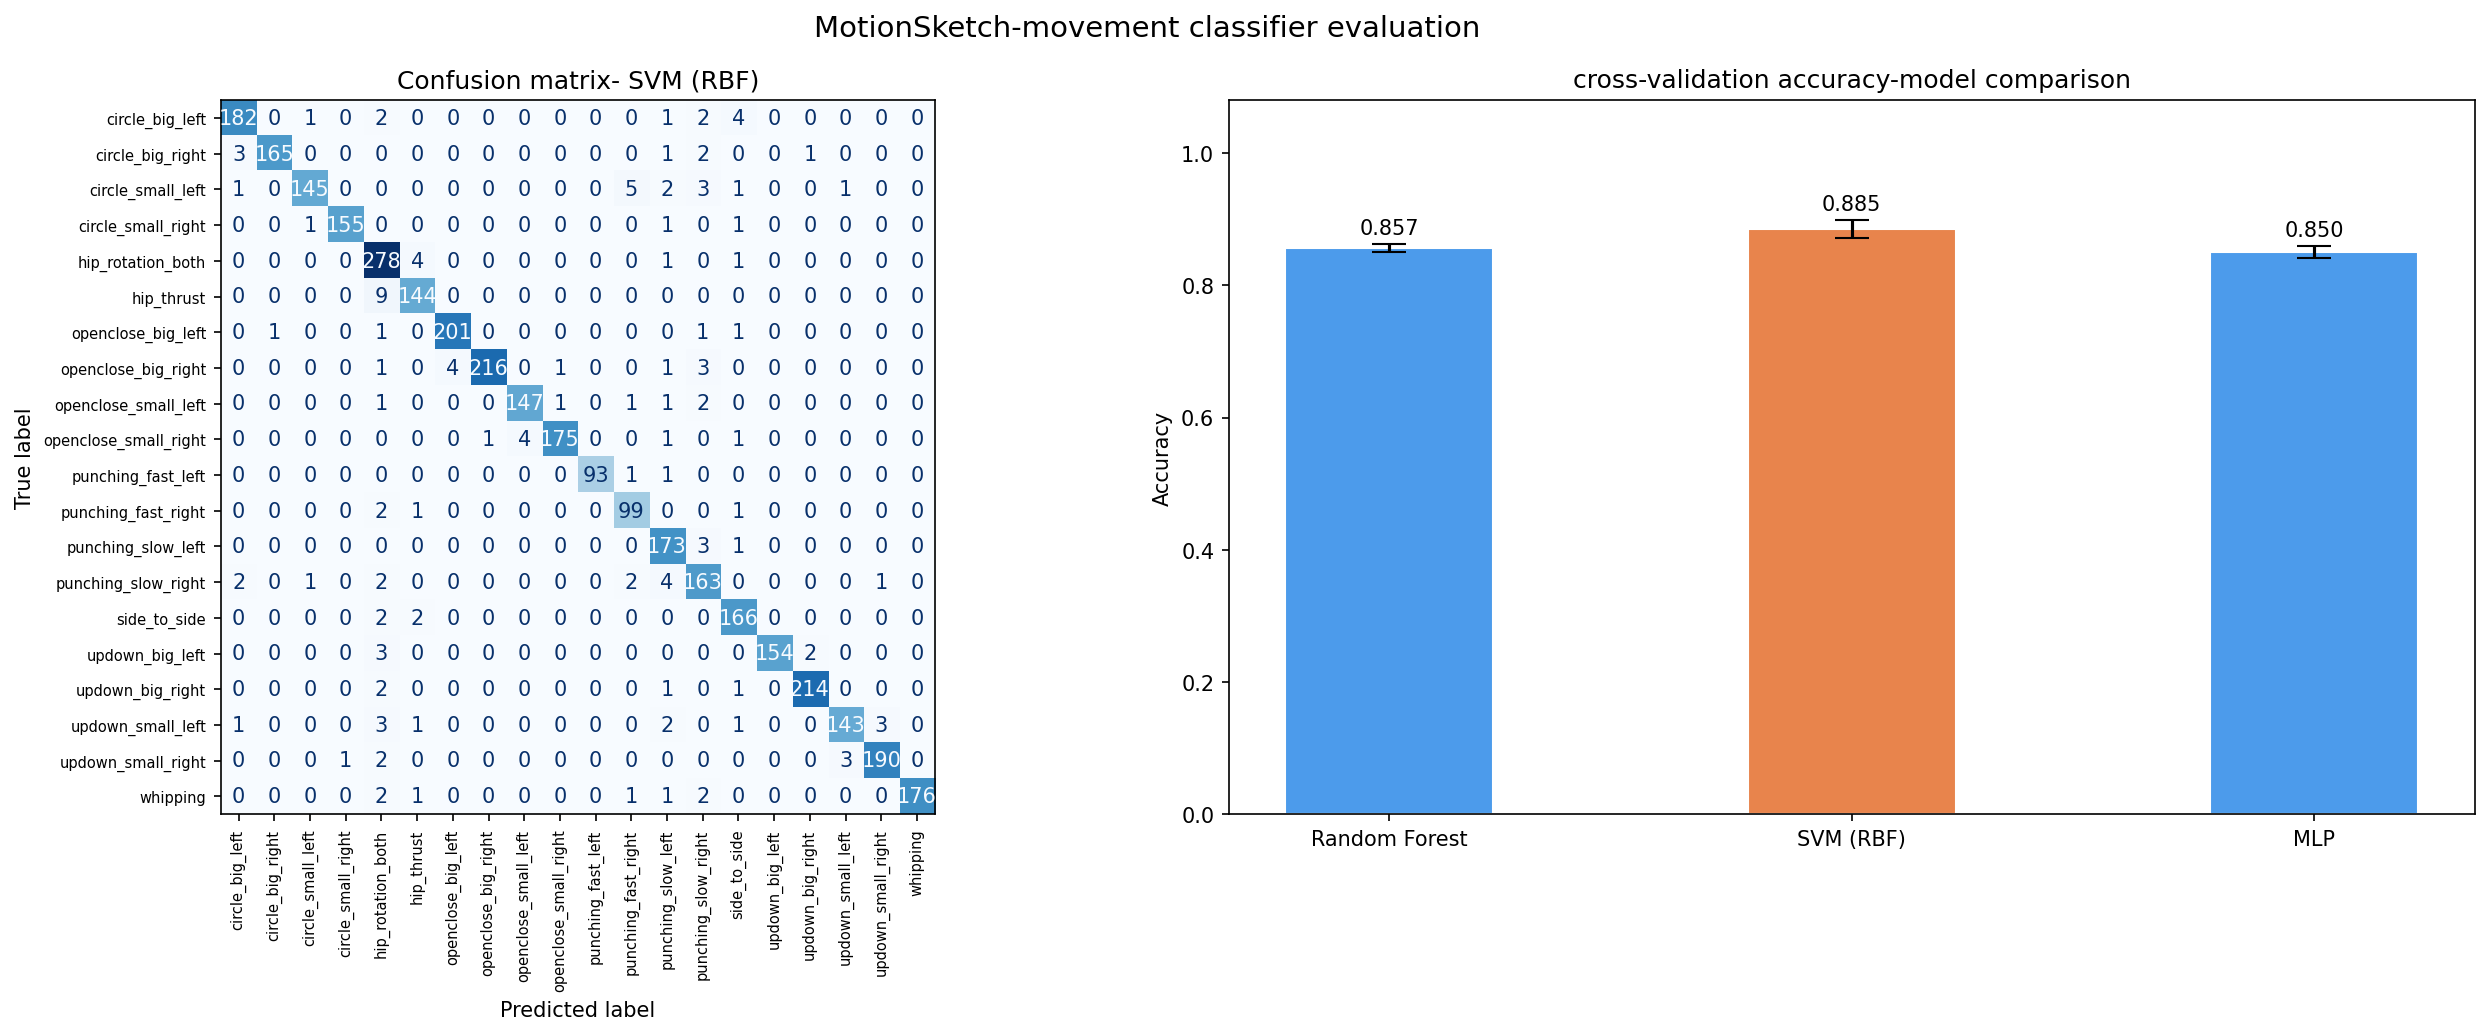
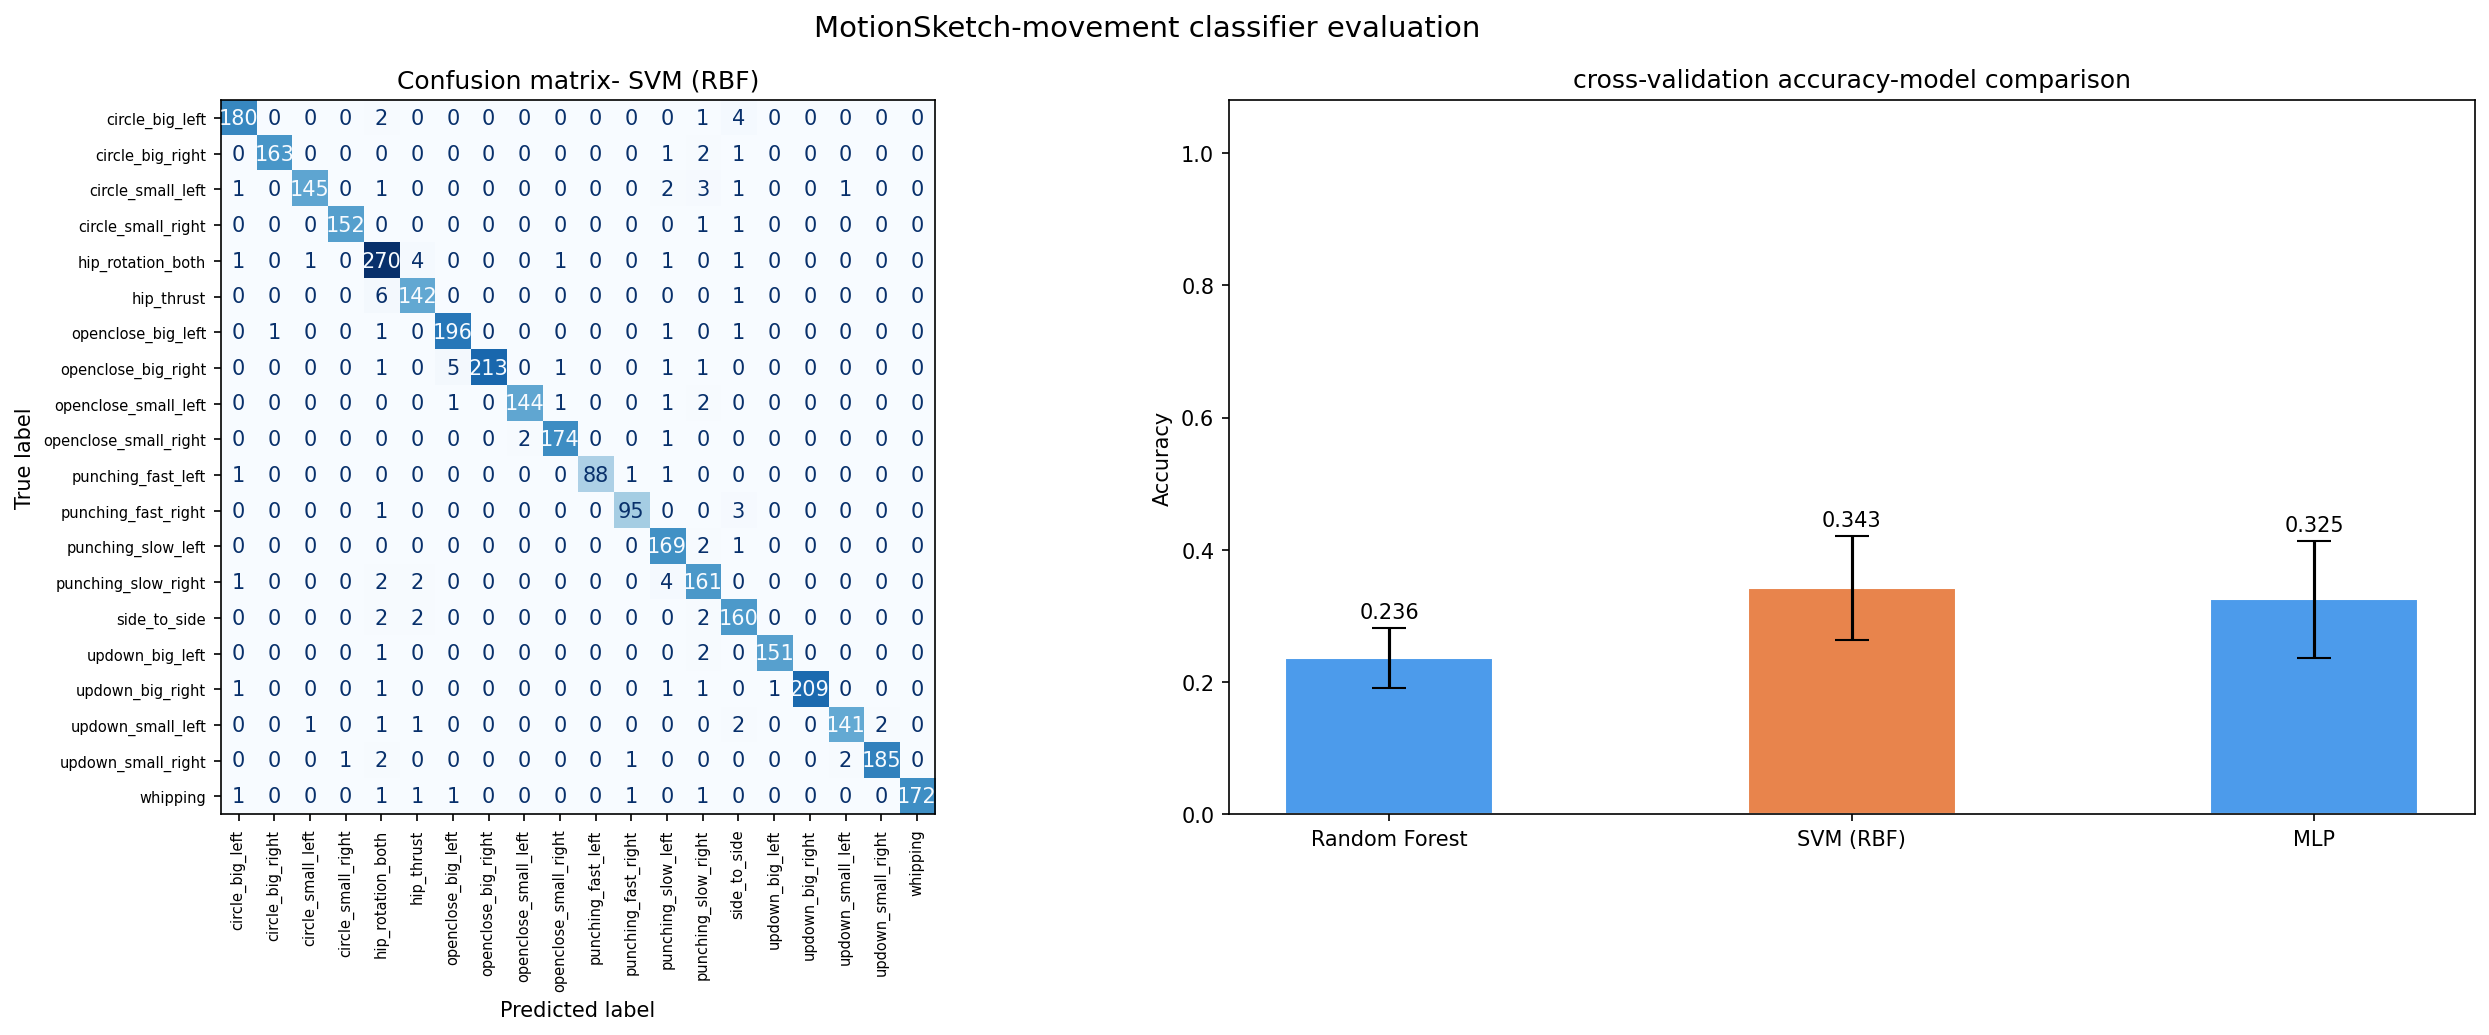
showing real 34% accuracy because removed the window-overlap leakage

diff --git a/MotionSketchLive/liveEngine.py b/MotionSketchLive/liveEngine.py
@@ -22,6 +22,8 @@ UUID_ORIENTATION = "15172002-4947-11e9-8646-d663bd873d93"
 UUID_MEDIUM      = "15172003-4947-11e9-8646-d663bd873d93"
 UUID_COMPLETE    = "15172004-4947-11e9-8646-d663bd873d93"
 
+PAYLOAD_CUSTOM_MODE_1 = 0x16   # VERIFY against your DOT BLE spec; run the sweep if unsure
+
 class MotionSketchLivePipeline:
     def __init__(self):
         print("[Engine] Loading model workspace...")
@@ -39,30 +41,37 @@ class MotionSketchLivePipeline:
         self.last_sent_label = None
 
     def parse_payload(self, data):
-        """
-        Custom Mode 1 — 40 byte packet layout:
-          bytes  0- 3 : timestamp (uint32)
-          bytes  4- 9 : Euler X, Y, Z (3 x int16, scaled x0.01)
-          bytes 10-11 : padding
-          bytes 12-23 : FreeAcc X, Y, Z (3 x float32)
-          bytes 24-35 : Gyr X, Y, Z (3 x float32)
-          bytes 36-39 : status/padding
-        """
-        try:
-            if len(data) >= 36:
-                free_acc = np.array(struct.unpack('<fff', data[12:24]))
-                gyr      = np.array(struct.unpack('<fff', data[24:36]))
-                result   = np.concatenate([free_acc, gyr])
-                # Reject if any value is NaN or unreasonably large
+            """
+            Custom Mode 1 — 40 byte packet (all IEEE-754 float32):
+            bytes  0- 3 : timestamp (uint32)
+            bytes  4-15 : Euler X, Y, Z      (3 x float32)  -- not used by the model
+            bytes 16-27 : FreeAcc X, Y, Z    (3 x float32)  -- m/s²
+            bytes 28-39 : Gyr X, Y, Z        (3 x float32)  -- deg/s
+            """
+            if len(data) < 40:
+                return None
+            try:
+                free_acc = struct.unpack('<fff', data[16:28])
+                gyr      = struct.unpack('<fff', data[28:40])
+                result   = np.array(free_acc + gyr)   # 6 channels: [FreeAcc, Gyr]
                 if np.any(np.isnan(result)) or np.any(np.abs(result) > 1e6):
                     return None
                 return result
-        except Exception as e:
-            print(f"[PARSE ERROR] {e}")
-            return None
-        return None
+            except Exception as e:
+                print(f"[PARSE ERROR] {e}")
+                return None
 
     def ble_notification_callback(self, sender, data):
+        if self.total_packets_received % 60 == 0:
+            print(f"\n[RAW] len={len(data)} hex={data.hex()}")
+            # try the float32-Euler layout:
+            ts   = struct.unpack('<I', data[0:4])[0]
+            eul  = struct.unpack('<fff', data[4:16])
+            facc = struct.unpack('<fff', data[16:28])
+            gyr  = struct.unpack('<fff', data[28:40])
+            print(f"[TEST] ts={ts} euler={np.round(eul,2)} facc={np.round(facc,3)} gyr={np.round(gyr,3)}")
+            self.total_packets_received += 1
+
         start_time = time.perf_counter()
         self.total_packets_received += 1
         
@@ -102,6 +111,8 @@ class MotionSketchLivePipeline:
         label         = self.le.inverse_transform([predicted_idx])[0]
         latency_ms    = round((time.perf_counter() - start_time) * 1000, 2)
 
+        print(f"[raw] {label:<22} {confidence:.1%}")
+
         # Only accept confident predictions
         if confidence < 0.50:
             return
@@ -133,22 +144,13 @@ async def main():
                 print("[BLE] Notification enabled on UUID_MEDIUM.")
                 await asyncio.sleep(0.5)
 
-                # Step 2 — set payload mode to Custom Mode 1
+                # Start measurement in Custom Mode 1 (mode is the 3rd byte of the START message)
                 await client.write_gatt_char(
                     CONTROL_UUID,
-                    bytearray([0x01, 0x10, 0x01]),
+                    bytearray([0x01, 0x01, PAYLOAD_CUSTOM_MODE_1]),
                     response=True
                 )
-                print("[BLE] Payload mode set to Custom Mode 1.")
-                await asyncio.sleep(0.3)
-
-                # Step 3 — start streaming
-                await client.write_gatt_char(
-                    CONTROL_UUID,
-                    bytearray([0x01, 0x01, 0x01]),
-                    response=True
-                )
-                print("[SYSTEM ONLINE] Streaming started. Wave the device!")
+                print(f"[SYSTEM ONLINE] Streaming started in Custom Mode 1 (0x{PAYLOAD_CUSTOM_MODE_1:02x}). Wave the device!")
 
                 while True:
                     await asyncio.sleep(1.0)

diff --git a/Features.py b/Features.py
@@ -62,20 +62,24 @@ def extract_features(window: np.ndarray) ->np.ndarray:#loops 9 times ( once per 
 
 
 #sliding window builder 
-def build_dataset(df,cols):
-    X_list, y_list=[],[]
+def build_dataset(df, cols):
+    X_list, y_list, g_list = [], [], []
 
-    for label in df['Label'].unique():
-        signal=df[df['Label']==label][cols].values
-        for start in range(0,len(signal)-WINDOW_SIZE+1,STEP_SIZE):
-            window =signal[start:start+WINDOW_SIZE]
-            if window.shape[0]==WINDOW_SIZE:
+    for source in df['Source'].unique():
+        sub = df[df['Source'] == source]
+        label = sub['Label'].iloc[0]
+        signal = sub[cols].values
+        for start in range(0, len(signal) - WINDOW_SIZE + 1, STEP_SIZE):
+            window = signal[start:start + WINDOW_SIZE]
+            if window.shape[0] == WINDOW_SIZE:
                 X_list.append(extract_features(window))
                 y_list.append(label)
-            
-    X=np.array(X_list)
-    y=np.array(y_list)
+                g_list.append(source)
 
-    print(f"[Features] {X.shape[0]} windows built | {X.shape[1]} features each")
-    return X,y 
+    X = np.array(X_list)
+    y = np.array(y_list)
+    groups = np.array(g_list)
+
+    print(f"[Features] {X.shape[0]} windows | {X.shape[1]} features | {len(np.unique(groups))} recordings")
+    return X, y, groups
 

diff --git a/Train.py b/Train.py
@@ -6,7 +6,7 @@ import numpy as np
 import pandas as pd 
 from sklearn.ensemble import RandomForestClassifier
 from sklearn.metrics import classification_report, confusion_matrix, ConfusionMatrixDisplay
-from sklearn.model_selection import StratifiedKFold, cross_val_score
+from sklearn.model_selection import StratifiedGroupKFold, cross_val_score
 from sklearn.neural_network import MLPClassifier
 from sklearn.pipeline import Pipeline 
 from sklearn.preprocessing import LabelEncoder, StandardScaler
@@ -85,15 +85,16 @@ def get_models():
 
 
 #cross-validation 
-def cross_validate(models, X,y):
-    cv=StratifiedKFold(n_splits=5, shuffle=True, random_state=42)
+def cross_validate(models, X, y, groups):
+    cv = StratifiedGroupKFold(n_splits=4, shuffle=True, random_state=42)
 
-    print("\n---------Cross-validation results(5-fold)---------------")
-    cv_results={}
+    print("\n---------Cross-validation results (grouped by recording)---------------")
+    cv_results = {}
 
-    for name,pipe in models.items():
-        scores=cross_val_score(pipe,X,y,cv=cv, scoring="accuracy", n_jobs=-1)
-        cv_results[name]=scores
+    for name, pipe in models.items():
+        scores = cross_val_score(pipe, X, y, groups=groups, cv=cv,
+                                 scoring="accuracy", n_jobs=-1)
+        cv_results[name] = scores
         print(f"{name:<20} mean={scores.mean():.4f} std= +-{scores.std():.4f}")
 
     return cv_results
@@ -187,7 +188,7 @@ if __name__=="__main__":
     df,cols=load_data()
 
     #building feature matrix from sliding windows 
-    X,y_str= build_dataset(df, cols)
+    X, y_str, groups = build_dataset(df, cols)
 
     #encoding string labels to integers
     le= LabelEncoder()
@@ -198,7 +199,7 @@ if __name__=="__main__":
     models=get_models()
 
     #cross validating all three
-    cv_results=cross_validate(models,X,y)
+    cv_results = cross_validate(models, X, y, groups)
 
     #training the winner on all the data and saving 
     best_pipe, best_name=train_best (models, cv_results, X, y, le)

diff --git a/PythonParser.py b/PythonParser.py
@@ -25,6 +25,7 @@ for f in files:
     
     # Add the target classification label
     df['Label'] = l
+    df['Source'] = os.path.basename(f)   # which recording this row came from
     all_data.append(df)
 
 # Concatenate into one master dataset